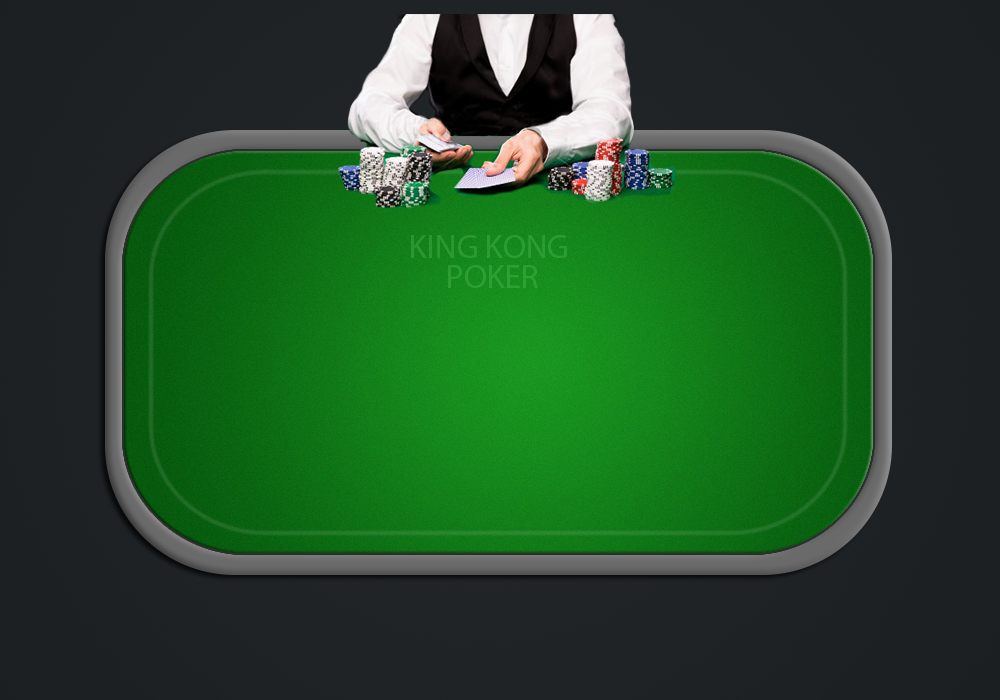
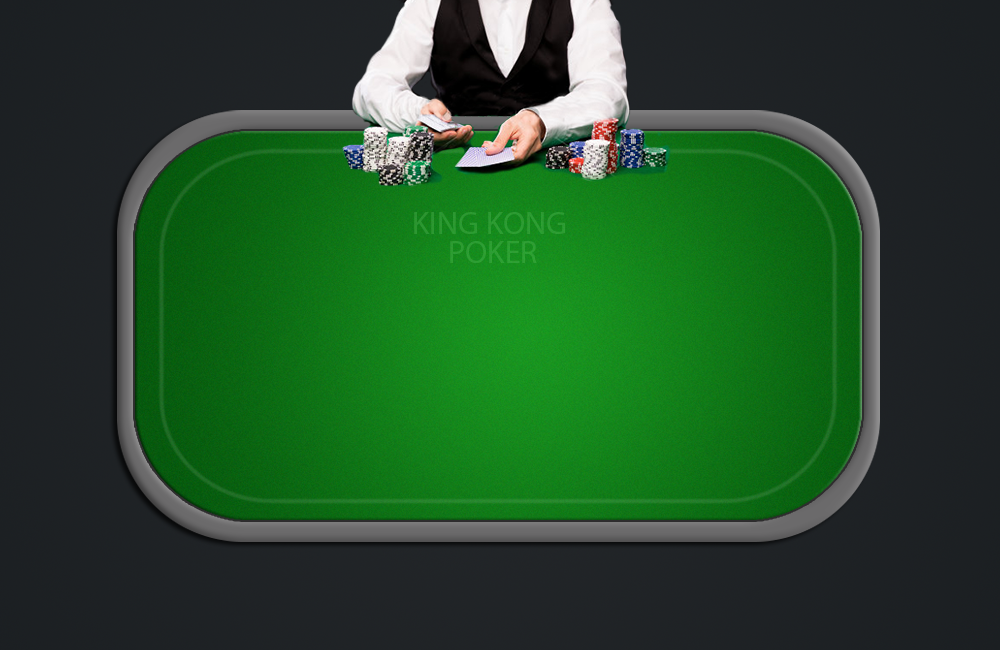
Createing cards for players

diff --git a/src/Controller.java b/src/Controller.java
@@ -131,23 +131,25 @@ public class Controller extends Application{
         for (int playerId = 0; playerId < game.getPlayers().size(); playerId++) {
             Hand hand = game.getPlayer(playerId).getHand();
             System.out.println("Total players " + game.getPlayers().size());
+            // Create pane holder for player
+            panePlayers.add(new Pane());
             for (int cardIndex = 0; cardIndex < hand.getNoOfCards(); cardIndex++) {
-                panePlayers.add(new Pane());
+
 
                 Card card = hand.getCard(cardIndex);
+                System.out.println("Player id: " + playerId + ", card index: " + cardIndex);
                 for (Table_ p: Table_.values()){
+                    if(cardIndex == p.getCardId()) {
+                        // Set Card position in layout
+                        card.getImageView().setX(p.getX());                 // Set x
+                        card.getImageView().setY(p.getY());                 // Set y
+                        card.getImageView().setRotate(p.getRotation());     // Set rotation
+                    }
                     if(playerId == p.getUserId()){
-                        if(cardIndex == p.getCardId()){
+                        // Set Layout position
+                        panePlayers.get(playerId).setLayoutX(p.getXlayout()); // Set layout x
+                        panePlayers.get(playerId).setLayoutY(p.getYlayout()); // Set layout y
 
-                            // Set Card position in layout
-                            card.getImageView().setX(p.getX());
-                            card.getImageView().setY(p.getY());
-
-                            // Set Layout posistion
-                            panePlayers.get(playerId).setLayoutX(p.getXlayout());
-                            panePlayers.get(playerId).setLayoutX(p.getYlayout());
-
-                        }
                     }
                 }
 
@@ -165,7 +167,7 @@ public class Controller extends Application{
         root.setTop(topVBox);
         root.setCenter(paneRoot);
 
-        Scene scene = new Scene(root, 1000, 700);
+        Scene scene = new Scene(root, 1000, 650);
         window.setScene(scene);
         window.show();
 

diff --git a/src/Poker/Table_.java b/src/Poker/Table_.java
@@ -7,13 +7,14 @@ public enum Table_ {
 
     // DECK POS
     DECK(),
-    // CARDS
-    FIRST(0,0,0),
-    SECOND(1,72,0),
-    THIRD(2,140,0),
+    // CARDS, CardId,x,y,rotation
+    FIRST(0,72,0,0),
+    SECOND(1,50,0,10),
+    THIRD(2,0,0,0),
     FOURTH(),
     FIFTH(),
     DEAD_CARDS(),
+
     // Userinfo
     USERNAME(),
     BALANCE(),
@@ -22,13 +23,13 @@ public enum Table_ {
     BIG(),
     SMALL(),
     // Layout Position
-    P1(0,200,100,"../resource/bg/bg_profile.png"),
-    P2(1,600,200,"../resource/bg/bg_profile.png"),
-    P3(2,400,400,"../resource/bg/bg_profile.png"),
-    P4(3,500,500,"../resource/bg/bg_profile.png"),
+    P0(0,20,200,"../resource/bg/bg_profile.png"),
+    P1(1,200,500,"../resource/bg/bg_profile.png"),
+    P2(2,0,0,"../resource/bg/bg_profile.png"),
+    P3(3,0,0,"../resource/bg/bg_profile.png"),
     ;
 
-    private int userId,cardId;
+    private int userId,cardId,rotation;
     private double xLayout,yLayout; // Layout position
     private double x,y;             // Item position
     private String imageSrc;
@@ -37,10 +38,11 @@ public enum Table_ {
 
     }
 
-    Table_(int cardId,double x, double y) {
+    Table_(int cardId,double x, double y,int rotation) {
         this.cardId = cardId;
         this.x = x;
         this.y = y;
+        this.rotation = rotation;
     }
 
     Table_(int userId, double xLayout, double yLayout, String imageSrcProfile) {
@@ -76,5 +78,8 @@ public enum Table_ {
 
     public int getCardId(){
         return this.cardId;
+    }
+    public int getRotation(){
+        return this.rotation;
     }
 }
